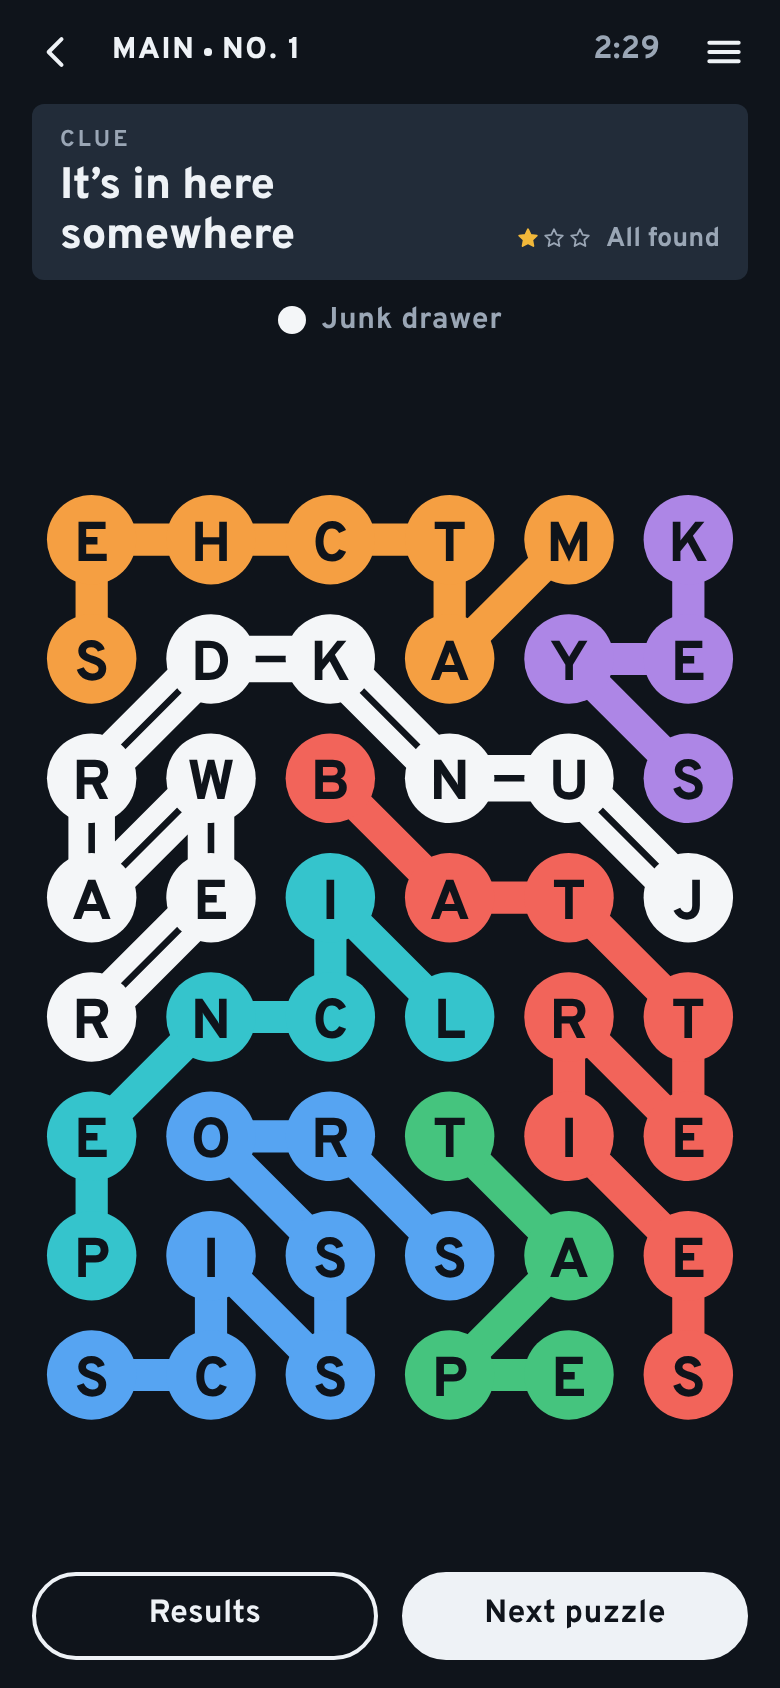
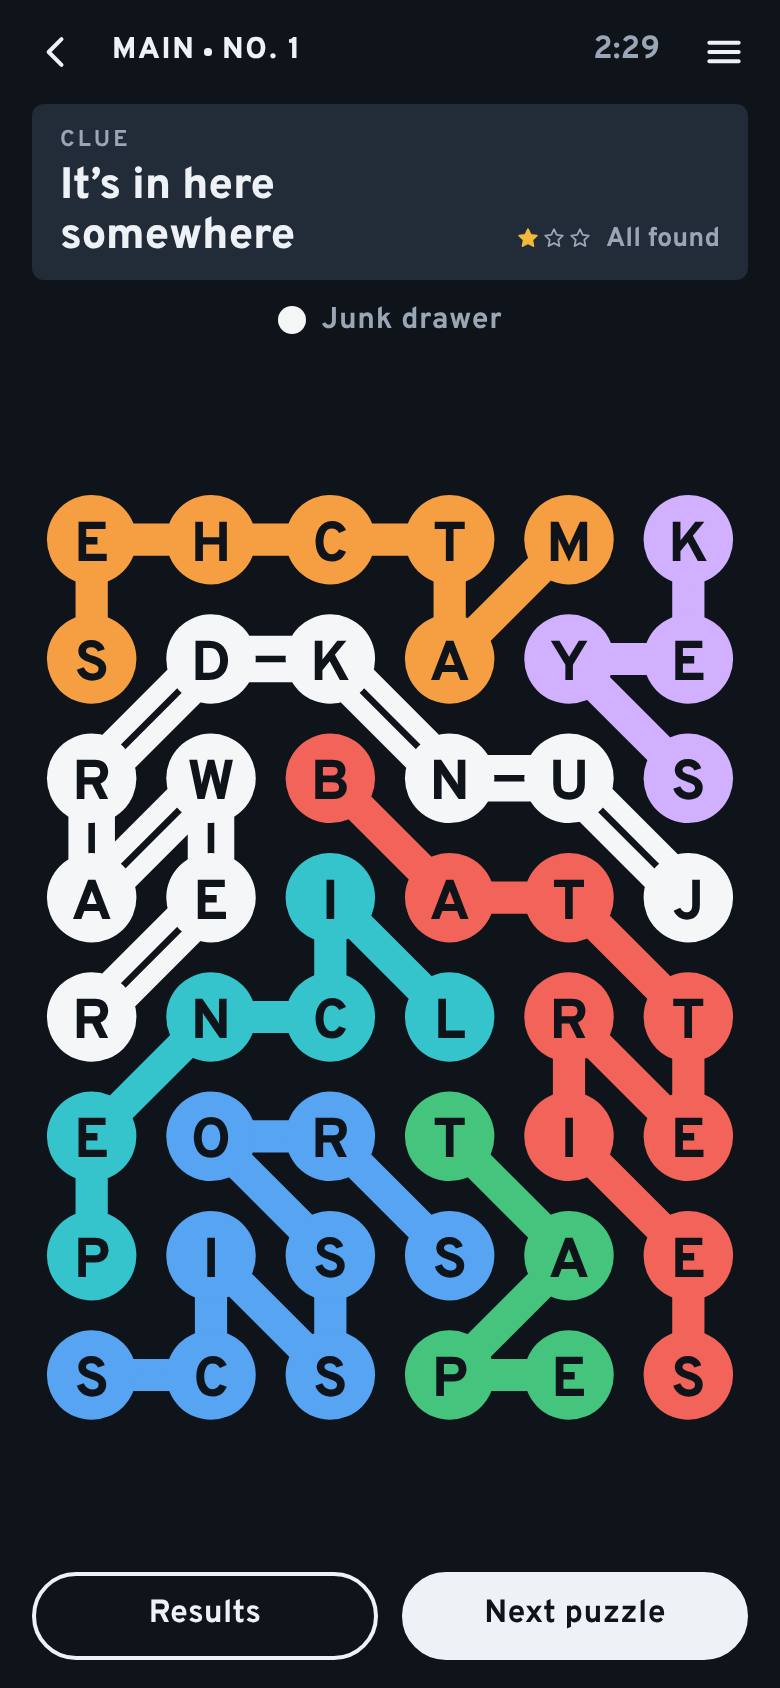
Deepen the purple line so it stands apart from blue for colour-blind eyes
Mark's answer to "Darker purple, so colour-blind players can tell it from blue": yes. Blue and purple meet on about
half the boards, and to someone with no red or no green cones they were only 8.7 and 8.0 apart in the light palette
(CIE76, simulated after Machado, Oliveira and Fernandes 2009) and 6.7 and 6.9 in the dark one. Purple is now a deeper
violet in light (#56288f) and a paler lavender in dark (#d0b0ff): 21.5 and 16.6 apart in light, 10.9 and 20.7 in dark,
with text on it at about 10:1. Every other colour is as it was. A test holds blue and purple at 10 or more apart in
both palettes. The README's finished map is redrawn (the share image has no purple on it).

Claude-Session: https://claude.ai/code/session_01PQbLNW4ckNMowmqWSWnEc1

Changed region(s): [[0.6769, 0.2773, 0.9538, 0.4929]]

diff --git a/sw.js b/sw.js
@@ -9,7 +9,7 @@
 // only when this file changes by a byte, so FILES is a fingerprint of every file in SHELL: change any of them and
 // test/e2e.mjs fails until FILES is changed to match (it says what to), which changes this file. Each release keeps
 // its copy under its own name, so making the next one never touches the one in use, and this worker reads only its own.
-const FILES = '09be131e'; // test/e2e.mjs checks this
+const FILES = 'e037e73d'; // test/e2e.mjs checks this
 const CACHE = 'crosstown-' + FILES;
 const SHELL = [
   './', 'index.html', 'icon.svg', 'manifest.webmanifest',

diff --git a/css/app.css b/css/app.css
@@ -27,7 +27,7 @@
   --l2: #1f6fc2;
   --l3: #1c8a4b;
   --l4: #c96a06;
-  --l5: #7a4bb0;
+  --l5: #56288f;
   --l6: #0a8891;
   --l7: #c93b80;
   --l8: #8a5c33;
@@ -68,7 +68,7 @@
     --l2: #56a4f2;
     --l3: #45c47e;
     --l4: #f59f42;
-    --l5: #ad86e6;
+    --l5: #d0b0ff;
     --l6: #35c4cc;
     --l7: #f074af;
     --l8: #c99664;
@@ -100,7 +100,7 @@
   --l2: #56a4f2;
   --l3: #45c47e;
   --l4: #f59f42;
-  --l5: #ad86e6;
+  --l5: #d0b0ff;
   --l6: #35c4cc;
   --l7: #f074af;
   --l8: #c99664;
